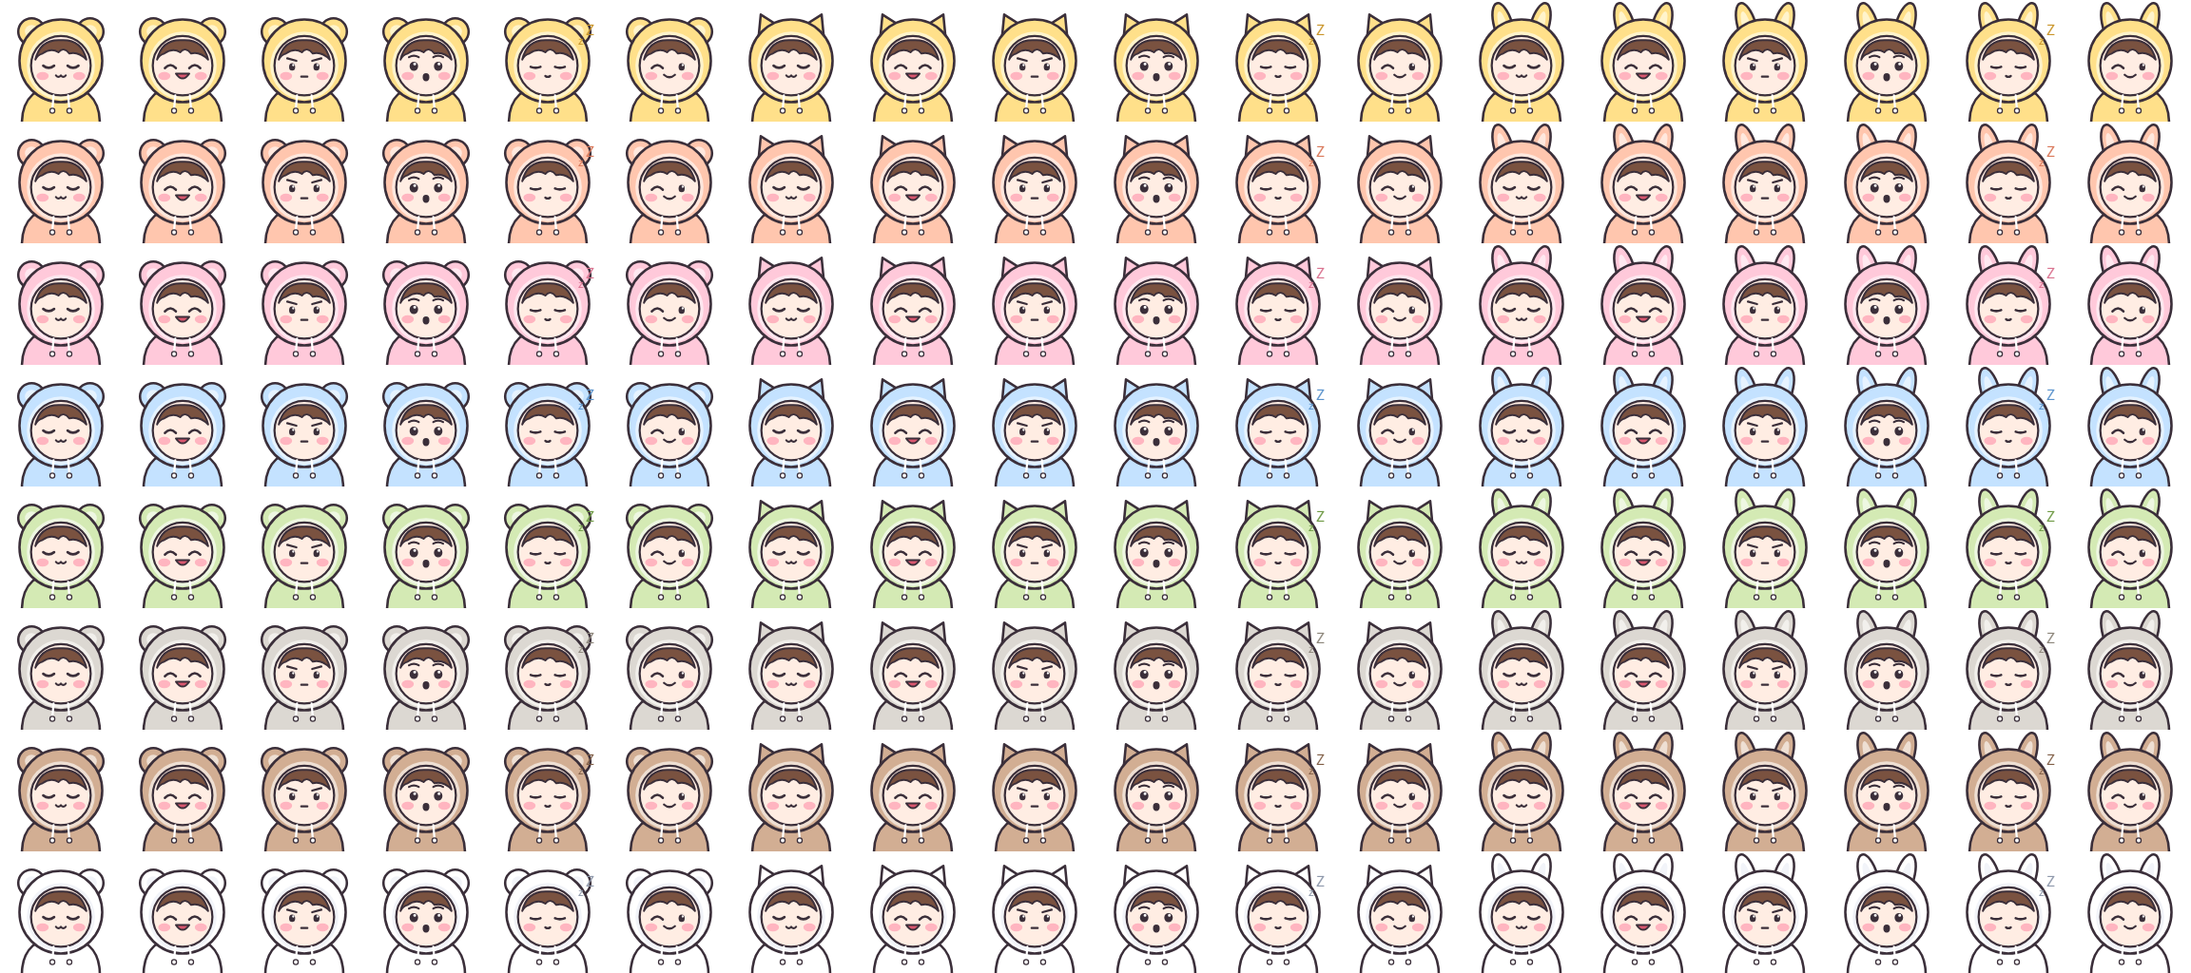
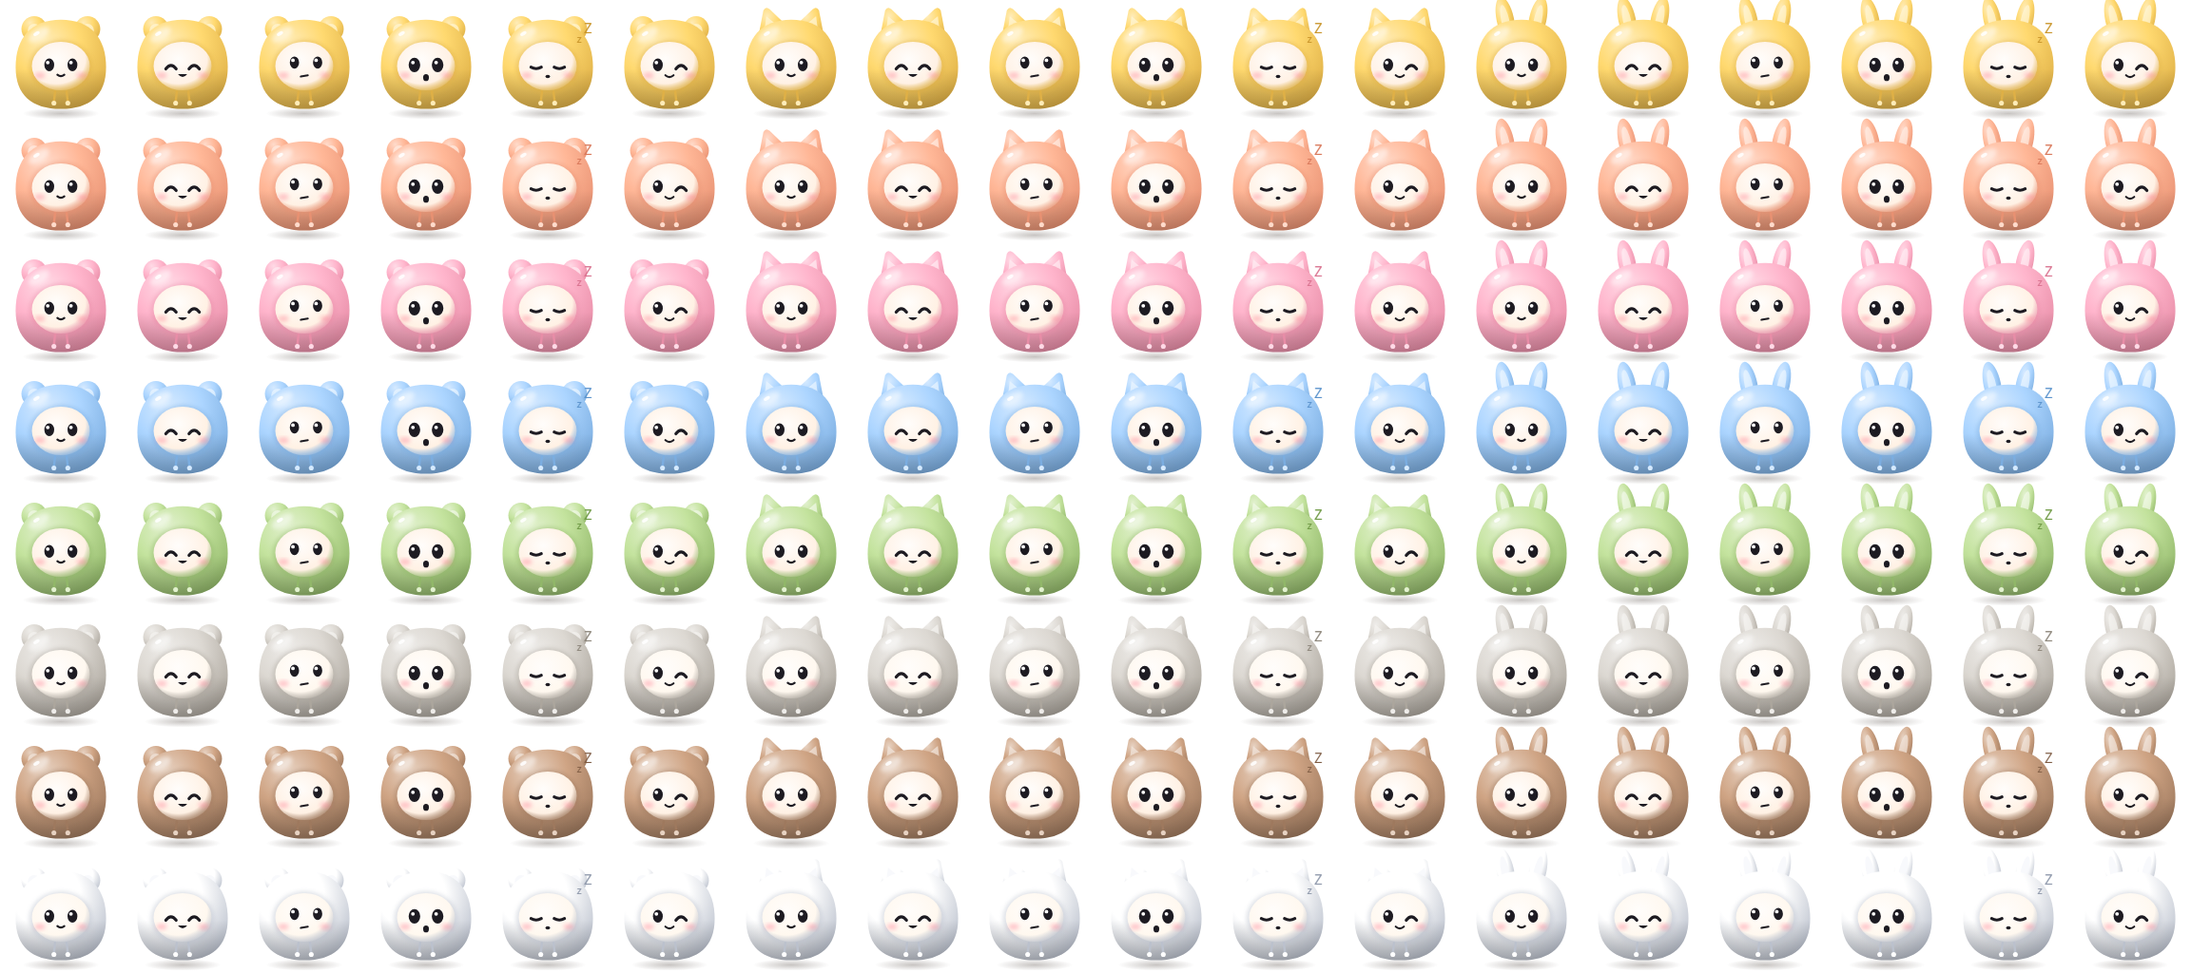
Android 테마를 흑백으로 바꾸고 캐릭터 그림 묶음과 금속 자물쇠를 적용함
- Compose 주 버튼(ZipPrimaryButton, ZipFilledButton)과 보조 버튼을 알약 모양으로, 주 버튼은 검은색으로 바꿨다. Material 기본 primary도 잉크색이다.
- 아이콘 타일은 웹과 같은 기준(회색 타일 + 진한 아이콘, 코랄만 유지)으로 그린다. 선택 칩은 검은 알약, 스위치는 잉크색이다.
- 큰 제목(display·headline)은 SUIT 800·-0.035em으로, 빈 화면 제목도 주아체 대신 SUIT를 쓴다.
- 설정 화면 캐릭터 그림 묶음(jipsooni_portraits.png, 18열×8행, 128px)을 새 3D 캐릭터로 다시 만들었다. scripts/render-jipsooni-portraits.cjs로 다시 만들 수 있다(402KB, 기존 224KB의 2배 미만).
- 승인 대화상자·인라인 승인 카드의 방패 타일과 사이트 로그인·저장한 로그인의 자물쇠 타일을 어두운 타일 속 금속 자물쇠(zi_ill_metal_lock)로 바꿨다. 동작·문구·testTag는 그대로다.
- 앱에 다크 테마가 없어 다크 모드 흰 알약은 적용 대상이 없다.

diff --git a/app/src/main/java/com/user/localagent/ui/ZipComponents.kt b/app/src/main/java/com/user/localagent/ui/ZipComponents.kt
@@ -146,7 +146,14 @@ fun ZipIllustration(
     Image(painterResource(illustration), contentDescription, modifier)
 }
 
-/** 40dp rounded tile (radius 12) with the tone's soft background and a 22dp duotone icon in the tone color. */
+/**
+ * Tile colors in the monochrome UI (2026-11-27, same rule as the web): a grey tile with an ink icon. Coral keeps its
+ * tint because it means "needs the owner" or a failure; the other tones only named a category.
+ */
+internal fun zipTileColors(tone: ZipTone): Pair<Color, Color> =
+    if (tone == ZipTone.Coral) tone.soft to tone.content else ZipHapColors.Soft to ZipHapColors.TextPrimary
+
+/** 40dp rounded tile (radius 12): grey background and a 22dp duotone ink icon (coral tone keeps its tint). */
 @Composable
 fun ZipIconTile(
     @DrawableRes icon: Int,
@@ -156,11 +163,26 @@ fun ZipIconTile(
     size: Dp = ZipHapTokens.IconTile,
     iconSize: Dp = 22.dp,
 ) {
+    val (background, content) = zipTileColors(tone)
     Box(
-        modifier.size(size).clip(RoundedCornerShape(ZipHapTokens.RadiusTile)).background(tone.soft),
+        modifier.size(size).clip(RoundedCornerShape(ZipHapTokens.RadiusTile)).background(background),
         contentAlignment = Alignment.Center,
     ) {
-        ZipIcon(icon, contentDescription, tint = tone.content, size = iconSize)
+        ZipIcon(icon, contentDescription, tint = content, size = iconSize)
+    }
+}
+
+/**
+ * Security tile for approval, sign-in, payment and vault surfaces: a dark rounded tile holding the metal lock
+ * (`R.drawable.zi_ill_metal_lock`, fixed gradient colors, never tinted). Decorative; the text next to it carries the meaning.
+ */
+@Composable
+fun ZipMetalLockTile(modifier: Modifier = Modifier, size: Dp = 36.dp) {
+    Box(
+        modifier.size(size).clip(RoundedCornerShape(ZipHapTokens.RadiusTile)).background(ZipHapTokens.Night),
+        contentAlignment = Alignment.Center,
+    ) {
+        ZipIllustration(com.user.localagent.runtime.R.drawable.zi_ill_metal_lock, contentDescription = null, modifier = Modifier.size(size * 0.82f))
     }
 }
 
@@ -334,19 +356,19 @@ fun ZipRow(
     ZipRowLayout(title, subtitle, icon, iconTone, enabled, modifier.then(click), trailing, showChevron)
 }
 
-/** Cobalt switch colors; the unchecked track keeps a 3:1 outline so the control stays visible on white. */
+/** Ink switch colors (monochrome); the unchecked track keeps a 3:1 outline so the control stays visible on white. */
 @Composable
 fun zipSwitchColors() = SwitchDefaults.colors(
     checkedThumbColor = Color.White,
-    checkedTrackColor = ZipHapColors.Cobalt,
+    checkedTrackColor = ZipHapColors.Ink,
     checkedBorderColor = Color.Transparent,
-    checkedIconColor = ZipHapColors.Cobalt,
+    checkedIconColor = ZipHapColors.Ink,
     uncheckedThumbColor = ZipHapColors.Outline,
     uncheckedTrackColor = ZipHapColors.SurfaceSunken,
     uncheckedBorderColor = ZipHapColors.Outline,
 )
 
-/** Row with a trailing cobalt switch; the whole row toggles (Role.Switch), so the touch target is the full row. */
+/** Row with a trailing ink switch; the whole row toggles (Role.Switch), so the touch target is the full row. */
 @Composable
 fun ZipSwitchRow(
     title: String,
@@ -379,7 +401,7 @@ private fun ZipButtonContent(text: String, icon: Int?) {
     Text(text, style = MaterialTheme.typography.labelLarge, textAlign = TextAlign.Center)
 }
 
-/** Primary action: cobalt fill (coral when [destructive]), white label, height 52, radius 16. */
+/** Primary action: ink pill (coral when [destructive]), white label, height 52, fully rounded. */
 @Composable
 fun ZipPrimaryButton(
     text: String,
@@ -394,9 +416,9 @@ fun ZipPrimaryButton(
         onClick = onClick,
         modifier = (if (fullWidth) modifier.fillMaxWidth() else modifier).heightIn(min = ZipHapTokens.ControlHeight),
         enabled = enabled,
-        shape = RoundedCornerShape(ZipHapTokens.RadiusControl),
+        shape = RoundedCornerShape(ZipHapTokens.RadiusPill),
         colors = ButtonDefaults.buttonColors(
-            containerColor = if (destructive) ZipHapColors.Coral else ZipHapColors.Cobalt,
+            containerColor = if (destructive) ZipHapColors.Coral else ZipHapColors.Ink,
             contentColor = Color.White,
             disabledContainerColor = ZipHapTokens.Line,
             disabledContentColor = ZipHapColors.TextFaint,
@@ -406,7 +428,7 @@ fun ZipPrimaryButton(
     ) { ZipButtonContent(text, icon) }
 }
 
-/** Secondary action: sunken grey fill, no border, dark label, height 52, radius 16. */
+/** Secondary action: sunken grey pill, no border, dark label, height 52. */
 @Composable
 fun ZipSecondaryButton(
     text: String,
@@ -420,7 +442,7 @@ fun ZipSecondaryButton(
         onClick = onClick,
         modifier = (if (fullWidth) modifier.fillMaxWidth() else modifier).heightIn(min = ZipHapTokens.ControlHeight),
         enabled = enabled,
-        shape = RoundedCornerShape(ZipHapTokens.RadiusControl),
+        shape = RoundedCornerShape(ZipHapTokens.RadiusPill),
         colors = ButtonDefaults.buttonColors(
             containerColor = ZipHapColors.SurfaceSunken,
             contentColor = ZipHapColors.TextPrimary,
@@ -432,7 +454,7 @@ fun ZipSecondaryButton(
     ) { ZipButtonContent(text, icon) }
 }
 
-/** Low-emphasis text action in cobalt-text, at least 48dp tall. */
+/** Low-emphasis text action in ink, at least 48dp tall. */
 @Composable
 fun ZipTextButton(
     text: String,
@@ -447,7 +469,7 @@ fun ZipTextButton(
         enabled = enabled,
         shape = RoundedCornerShape(ZipHapTokens.RadiusChip),
         colors = ButtonDefaults.textButtonColors(
-            contentColor = if (destructive) ZipTone.Coral.content else ZipHapTokens.CobaltText,
+            contentColor = if (destructive) ZipTone.Coral.content else ZipHapColors.TextPrimary,
             disabledContentColor = ZipHapColors.TextFaint,
         ),
     ) { Text(text, style = MaterialTheme.typography.labelLarge) }
@@ -593,7 +615,7 @@ fun ZipSheet(
 // Empty state
 // ---------------------------------------------------------------------------------------------------------------
 
-/** Empty screen or section: a spot illustration (decorative), display-font title, grey body (omitted when blank) and an optional action. */
+/** Empty screen or section: a spot illustration (decorative), heavy SUIT title, grey body (omitted when blank) and an optional action. */
 @Composable
 fun ZipEmptyState(
     @DrawableRes illustration: Int,
@@ -611,7 +633,7 @@ fun ZipEmptyState(
         Text(
             title,
             Modifier.semantics { heading() },
-            style = MaterialTheme.typography.titleLarge.copy(fontFamily = ZipFonts.display),
+            style = MaterialTheme.typography.headlineSmall.copy(fontSize = MaterialTheme.typography.titleLarge.fontSize, lineHeight = MaterialTheme.typography.titleLarge.lineHeight),
             color = ZipHapColors.TextPrimary,
             textAlign = TextAlign.Center,
         )

diff --git a/app/src/main/java/com/user/localagent/ui/ZipHapDesign.kt b/app/src/main/java/com/user/localagent/ui/ZipHapDesign.kt
@@ -81,6 +81,11 @@ object ZipHapColors {
     val SunSoft = ZipHapTokens.SunSoft
     val Lilac = ZipHapTokens.Lilac
     val LilacSoft = ZipHapTokens.LilacSoft
+    /** Monochrome UI (2026-11-27): the one action is an ink pill; icon tiles are grey with ink icons. */
+    val Ink = ZipHapTokens.Ink
+    val OnInk = ZipHapTokens.OnInk
+    val Soft = ZipHapTokens.Soft
+    val SoftStrong = ZipHapTokens.SoftStrong
     val Error = Color(0xFFC62828)
     val ErrorSoft = Color(0xFFFDE7E7)
 
@@ -97,10 +102,10 @@ object ZipHapColors {
  * for filled TextField/Card, surfaceContainerHigh for AlertDialog and surfaceContainerLow for ModalBottomSheet.
  */
 private val ZipHapScheme = lightColorScheme(
-    primary = ZipHapColors.Cobalt,
-    onPrimary = ZipHapColors.OnCobalt,
-    primaryContainer = ZipHapColors.CobaltSoft,
-    onPrimaryContainer = Color(0xFF1A2A8C),
+    primary = ZipHapColors.Ink,
+    onPrimary = ZipHapColors.OnInk,
+    primaryContainer = ZipHapColors.Soft,
+    onPrimaryContainer = ZipHapColors.TextPrimary,
     secondary = ZipHapColors.Coral,
     onSecondary = Color.White,
     secondaryContainer = ZipHapColors.CoralSoft,
@@ -115,7 +120,7 @@ private val ZipHapScheme = lightColorScheme(
     onSurface = ZipHapColors.TextPrimary,
     surfaceVariant = ZipHapColors.SurfaceSunken,
     onSurfaceVariant = ZipHapColors.TextSecondary,
-    surfaceTint = ZipHapColors.Cobalt,
+    surfaceTint = ZipHapColors.Ink,
     surfaceBright = Color.White,
     surfaceDim = Color(0xFFE6E8EF),
     surfaceContainerLowest = Color.White,
@@ -147,7 +152,7 @@ object ZipFonts {
         variationSettings = FontVariation.Settings(FontVariation.weight(weight)),
     )
 
-    val ui: FontFamily = FontFamily(suit(400), suit(500), suit(600), suit(700))
+    val ui: FontFamily = FontFamily(suit(400), suit(500), suit(600), suit(700), suit(800))
     val display: FontFamily = FontFamily(Font(R.font.jua_regular))
 }
 
@@ -159,6 +164,10 @@ private fun zipStyle(size: Float, weight: Int, lineHeight: Float, tight: Boolean
         lineHeight = lineHeight.sp,
         letterSpacing = if (tight) ZipHapTokens.LsTight.em else 0.sp,
     )
+
+/** Large headings (2026-11-27): SUIT 800 at -0.035em. Jua stays only for the character's name. */
+private fun zipDisplay(size: Float, lineHeight: Float) =
+    zipStyle(size, ZipHapTokens.FwHeavy, lineHeight, tight = false).copy(letterSpacing = ZipHapTokens.LsDisplay.em)
 
 private fun headingLine(size: Float) = size * ZipHapTokens.LhTight
 
@@ -173,12 +182,12 @@ private val ZipHapTypography = run {
     val medium = ZipHapTokens.FwMedium
     val regular = ZipHapTokens.FwRegular
     Typography(
-        displayLarge = zipStyle(40f, bold, 48f, tight = true, family = ZipFonts.display),
-        displayMedium = zipStyle(34f, bold, 42f, tight = true, family = ZipFonts.display),
-        displaySmall = zipStyle(28f, bold, headingLine(28f), tight = true, family = ZipFonts.display),
-        headlineLarge = zipStyle(28f, bold, headingLine(28f), tight = true),
-        headlineMedium = zipStyle(26f, bold, headingLine(26f), tight = true),
-        headlineSmall = zipStyle(24f, bold, headingLine(24f), tight = true),
+        displayLarge = zipDisplay(40f, 48f),
+        displayMedium = zipDisplay(34f, 42f),
+        displaySmall = zipDisplay(28f, headingLine(28f)),
+        headlineLarge = zipDisplay(28f, headingLine(28f)),
+        headlineMedium = zipDisplay(26f, headingLine(26f)),
+        headlineSmall = zipDisplay(24f, headingLine(24f)),
         titleLarge = zipStyle(20f, bold, headingLine(20f), tight = true),
         titleMedium = zipStyle(17f, bold, 23f, tight = true),
         titleSmall = zipStyle(15f, bold, 21f, tight = false),

diff --git a/app/src/main/java/com/user/localagent/ui/ZipMaterial.kt b/app/src/main/java/com/user/localagent/ui/ZipMaterial.kt
@@ -54,7 +54,7 @@ import androidx.compose.ui.unit.dp
  * 2.0 by renaming the call: callbacks, modifiers, testTags and semantics pass through untouched.
  */
 
-/** Filled secondary action in place of OutlinedButton: sunken fill, no border, radius 16, at least 48dp tall. */
+/** Filled secondary action in place of OutlinedButton: sunken grey pill, no border, at least 48dp tall. */
 @Composable
 fun ZipOutlinedButton(
     onClick: () -> Unit,
@@ -67,7 +67,7 @@ fun ZipOutlinedButton(
         onClick = onClick,
         modifier = modifier.heightIn(min = 48.dp),
         enabled = enabled,
-        shape = RoundedCornerShape(ZipHapTokens.RadiusControl),
+        shape = RoundedCornerShape(ZipHapTokens.RadiusPill),
         colors = ButtonDefaults.buttonColors(
             containerColor = ZipHapColors.SurfaceSunken,
             contentColor = ZipHapColors.TextPrimary,
@@ -80,7 +80,7 @@ fun ZipOutlinedButton(
     )
 }
 
-/** Cobalt filled primary in place of Button (coral when [destructive]): radius 16, at least 48dp tall, no shadow. */
+/** Ink pill primary in place of Button (coral when [destructive]): fully rounded, at least 48dp tall, no shadow. */
 @Composable
 fun ZipFilledButton(
     onClick: () -> Unit,
@@ -94,9 +94,9 @@ fun ZipFilledButton(
         onClick = onClick,
         modifier = modifier.heightIn(min = 48.dp),
         enabled = enabled,
-        shape = RoundedCornerShape(ZipHapTokens.RadiusControl),
+        shape = RoundedCornerShape(ZipHapTokens.RadiusPill),
         colors = ButtonDefaults.buttonColors(
-            containerColor = if (destructive) ZipHapColors.Coral else ZipHapColors.Cobalt,
+            containerColor = if (destructive) ZipHapColors.Coral else ZipHapColors.Ink,
             contentColor = Color.White,
             disabledContainerColor = ZipHapTokens.Line,
             disabledContentColor = ZipHapColors.TextFaint,
@@ -221,12 +221,12 @@ fun ZipFilterChip(
             containerColor = ZipHapColors.SurfaceSunken,
             labelColor = ZipHapColors.TextPrimary,
             iconColor = ZipHapColors.TextSecondary,
-            selectedContainerColor = ZipHapColors.CobaltSoft,
-            selectedLabelColor = ZipHapTokens.CobaltText,
-            selectedLeadingIconColor = ZipHapTokens.CobaltText,
-            selectedTrailingIconColor = ZipHapTokens.CobaltText,
+            selectedContainerColor = ZipHapColors.Ink,
+            selectedLabelColor = ZipHapColors.OnInk,
+            selectedLeadingIconColor = ZipHapColors.OnInk,
+            selectedTrailingIconColor = ZipHapColors.OnInk,
             disabledContainerColor = ZipHapColors.SurfaceSunken,
-            disabledSelectedContainerColor = ZipHapColors.CobaltSoft,
+            disabledSelectedContainerColor = ZipHapColors.SoftStrong,
             disabledLabelColor = ZipHapColors.TextFaint,
         ),
         border = null,
@@ -254,7 +254,7 @@ fun ZipAssistChip(
         colors = AssistChipDefaults.assistChipColors(
             containerColor = ZipHapColors.SurfaceSunken,
             labelColor = ZipHapColors.TextPrimary,
-            leadingIconContentColor = ZipHapTokens.CobaltText,
+            leadingIconContentColor = ZipHapColors.TextPrimary,
             trailingIconContentColor = ZipHapColors.TextSecondary,
             disabledContainerColor = ZipHapColors.SurfaceSunken,
             disabledLabelColor = ZipHapColors.TextFaint,

diff --git a/app/src/main/java/com/user/localagent/integrations/AppBrowserPanel.kt b/app/src/main/java/com/user/localagent/integrations/AppBrowserPanel.kt
@@ -41,6 +41,7 @@ import com.user.localagent.ui.zipSwitchColors
 import com.user.localagent.ui.ZipHapColors
 import com.user.localagent.ui.ZipHapTokens
 import com.user.localagent.ui.ZipIconTile
+import com.user.localagent.ui.ZipMetalLockTile
 import com.user.localagent.ui.ZipTone
 import com.user.localagent.ui.ZipBulletText
 import com.user.localagent.ui.zipShadow
@@ -70,7 +71,7 @@ import com.user.localagent.ui.zipShadow
             if(savedSites.isEmpty()&&vaultStatus==null)Text("이 휴대폰에 저장한 로그인이 없어요.")
             for(site in savedSites)Row(horizontalArrangement=Arrangement.spacedBy(12.dp),modifier=Modifier.fillMaxWidth(),
                 verticalAlignment=androidx.compose.ui.Alignment.CenterVertically){
-                ZipIconTile(com.user.localagent.runtime.R.drawable.zi_lock,tone=ZipTone.Neutral,size=36.dp,iconSize=20.dp)
+                ZipMetalLockTile(size=36.dp)
                 Text(site.host,Modifier.weight(1f))
                 TextButton(onClick={scope.launch {
                     try{browser.removeSavedWebsite(site);savedSites=browser.savedWebsiteOrigins();vaultStatus=null}
@@ -274,7 +275,7 @@ internal fun InlineBrowserLoginCard(agent:AppWebAgent,login:AppWebAgent.LoginCar
             Column(Modifier.fillMaxWidth().verticalScroll(rememberScrollState()).padding(horizontal=12.dp,vertical=8.dp),
                 verticalArrangement=Arrangement.spacedBy(3.dp)){
                 Row(verticalAlignment=androidx.compose.ui.Alignment.CenterVertically,horizontalArrangement=Arrangement.spacedBy(10.dp)){
-                    ZipIconTile(com.user.localagent.runtime.R.drawable.zi_lock,size=36.dp,iconSize=20.dp)
+                    ZipMetalLockTile(size=36.dp)
                     Column(Modifier.weight(1f)){
                         Text(if(login.pairedPc)"전용 PC 브라우저 로그인" else "사이트 로그인",style=MaterialTheme.typography.titleMedium)
                         Text(login.host,style=MaterialTheme.typography.bodySmall,color=ZipHapColors.TextSecondary)

diff --git a/app/src/main/java/com/user/localagent/ActionApprovalDialog.kt b/app/src/main/java/com/user/localagent/ActionApprovalDialog.kt
@@ -12,8 +12,7 @@ import com.user.localagent.ui.ZipFilledButton
 import com.user.localagent.ui.ZipOutlinedButton
 import com.user.localagent.ui.ZipHapColors
 import com.user.localagent.ui.ZipHapTokens
-import com.user.localagent.ui.ZipIconTile
-import com.user.localagent.ui.ZipTone
+import com.user.localagent.ui.ZipMetalLockTile
 import com.user.localagent.ui.zipShadow
 
 private fun approvalTitle(action:PendingAction):String =
@@ -70,6 +69,7 @@ internal fun ActionApprovalDialog(
 ) {
     AlertDialog(
         onDismissRequest={onDecision(false)},
+        icon={ZipMetalLockTile(size=44.dp)},
         title={Text(approvalTitle(action))},
         text={ApprovalContents(action,review,Modifier.heightIn(max=460.dp))},
         confirmButton={ApprovalConfirm(action,onDecision)},
@@ -87,7 +87,7 @@ internal fun InlineActionApproval(action:PendingAction,review:String,onDecision:
     ) {
         Column(Modifier.fillMaxSize().padding(horizontal=14.dp,vertical=8.dp)) {
             Row(verticalAlignment=Alignment.CenterVertically,horizontalArrangement=Arrangement.spacedBy(10.dp)) {
-                ZipIconTile(com.user.localagent.runtime.R.drawable.zi_shield,tone=ZipTone.Coral,size=32.dp,iconSize=18.dp)
+                ZipMetalLockTile(size=32.dp)
                 Text(approvalTitle(action),style=MaterialTheme.typography.titleSmall, maxLines=2)
             }
             Spacer(Modifier.height(6.dp))

diff --git a/app/src/test/java/com/user/localagent/ui/ZipComponentsTest.kt b/app/src/test/java/com/user/localagent/ui/ZipComponentsTest.kt
@@ -56,7 +56,23 @@ class ZipComponentsTest {
     }
 
     @Test
+    fun monochromeTilesAreGreyWithInkIconsExceptCoral() {
+        ZipTone.entries.forEach { tone ->
+            val (background, content) = zipTileColors(tone)
+            if (tone == ZipTone.Coral) {
+                assertEquals(ZipTone.Coral.soft to ZipTone.Coral.content, background to content)
+            } else {
+                assertEquals("ZipTone.${tone.name}", ZipHapColors.Soft to ZipHapColors.TextPrimary, background to content)
+            }
+            assertContrast(4.5, content, background, "tile ${tone.name}")
+        }
+    }
+
+    @Test
     fun buttonLabelsAreReadable() {
+        assertContrast(4.5, ZipHapColors.OnInk, ZipHapColors.Ink, "primary ink pill label")
+        assertContrast(3.0, ZipHapColors.Ink, ZipHapColors.Background, "primary ink pill on the page")
+        assertContrast(4.5, ZipHapTokens.NightText, ZipHapTokens.Night, "dark security card text")
         assertContrast(4.5, Color.White, ZipHapColors.Cobalt, "primary label")
         assertContrast(4.5, Color.White, ZipHapColors.Coral, "destructive label")
         assertContrast(4.5, ZipHapColors.TextPrimary, ZipHapColors.SurfaceSunken, "secondary label")

diff --git a/app/src/main/java/com/user/localagent/ui/SettingsAssistantPanel.kt b/app/src/main/java/com/user/localagent/ui/SettingsAssistantPanel.kt
@@ -146,7 +146,7 @@ private fun SettingsPortrait(character: CharacterPreference) {
         }
     }
     Box(
-        Modifier.size(40.dp).clip(androidx.compose.foundation.shape.CircleShape).background(ZipHapColors.CobaltSoft),
+        Modifier.size(40.dp).clip(androidx.compose.foundation.shape.CircleShape).background(ZipHapColors.Soft),
         contentAlignment = Alignment.Center,
     ) {
         bitmap?.let { Image(it, contentDescription = null, modifier = Modifier.size(36.dp)) }
